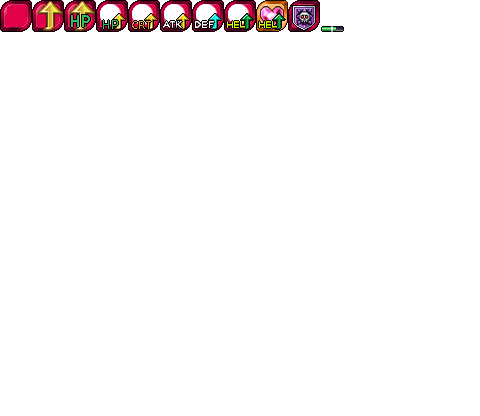
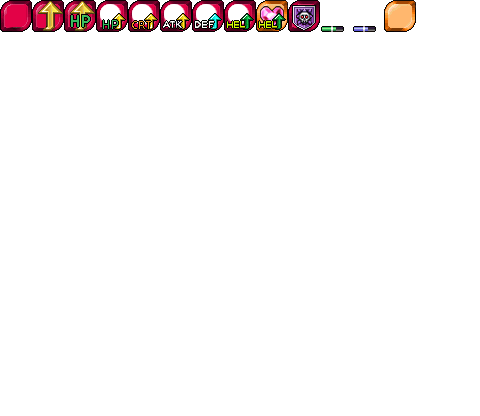
Added support for passive 12

Changed region(s): [[0.7188, 0.0, 0.875, 0.0938]]

diff --git a/src/components/Multidex/BuffList/BuffIcon.vue b/src/components/Multidex/BuffList/BuffIcon.vue
@@ -108,9 +108,9 @@
         <template v-if="!['PASSIVE_BUFF_HPUP', 'PASSIVE_BUFF_HCREC'].includes(iconKey)">
           <template v-if="iconKey.includes('HPTHRESH')">
             <image
-            width="480" height="416"
-            xlink:href="@/assets/buff-translation/battle/battle_buff_icon.png"
-            :transform="`translate(${getBattleBuffIconCoordinates(battleBuffIconKeys.indexOf(`BUFF_${getTypeInfoFromPassiveTypeStatKey(iconKey).stat}UP`))})`"/>
+              width="480" height="416"
+              xlink:href="@/assets/buff-translation/battle/battle_buff_icon.png"
+              :transform="`translate(${getBattleBuffIconCoordinates(battleBuffIconKeys.indexOf(`BUFF_${getTypeInfoFromPassiveTypeStatKey(iconKey).stat}UP`))})`"/>
             <image
               width="480" height="416"
               xlink:href="@/assets/buff-translation/battle/custom-icons.png"
@@ -133,6 +133,39 @@
         <text x="4" y="30" font-family="Consolas" font-size="3rem" font-weight="bold" fill="white" stroke="black" stroke-width="2px">
           {{ iconKey.startsWith('PASSIVE') ? 'P' : 'B' }}
         </text>
+      </g>
+    </template>
+    <template v-else-if="iconKey.startsWith('PASSIVE') && !!getDropType(iconKey)">
+      <template v-if="['zel', 'karma'].includes(getDropType(iconKey))">
+        <image
+          width="480" height="416"
+          xlink:href="@/assets/buff-translation/battle/custom-icons.png"
+          :transform="`translate(${getBattleBuffIconCoordinates(customBuffIconKeys.indexOf(`BUFF_GENERICDROP`))})`"/>
+        <image
+          v-if="getDropType(iconKey) === 'zel'"
+          width="102" height="102"
+          xlink:href="@/assets/zell_thum.png"
+          transform="scale(0.3)"/>
+        <image
+          v-else
+          width="102" height="102"
+          xlink:href="@/assets/karma_thum.png"
+          transform="scale(0.3)"/>
+      </template>
+      <image
+        v-else
+        width="480" height="416"
+        xlink:href="@/assets/buff-translation/battle/battle_buff_icon.png"
+        :transform="`translate(${getBattleBuffIconCoordinates(battleBuffIconKeys.indexOf(`BUFF_${getDropType(iconKey).toUpperCase()}DROP`))})`"/>
+      <template v-if="iconKey.includes('HPTHRESH')">
+        <image
+          width="480" height="416"
+          xlink:href="@/assets/buff-translation/battle/custom-icons.png"
+          :transform="`translate(${getBattleBuffIconCoordinates(customBuffIconKeys.indexOf(`BUFF_HPTHRESHGENERIC`))})`"/>
+      </template>
+      <g class="animate--pulse">
+        <rect x="0" y="0" width="32" height="32" rx="8" ry="8" fill="grey" style="fill-opacity: 0.5"/>
+        <text x="4" y="30" font-family="Consolas" font-size="3rem" font-weight="bold" fill="white" stroke="black" stroke-width="2px">P</text>
       </g>
     </template>
     <template v-else>
@@ -388,6 +421,8 @@ export default {
       'BUFF_HCREC',
       'BUFF_ALLAILNULL',
       'BUFF_HPTHRESHGENERIC',
+      'BUFF_BBTHRESHGENERIC',
+      'BUFF_GENERICDROP',
     ],
     ailmentBuffKeys: () => knownConstants.ailments.map(ail => `DEBUFF_${ail.toUpperCase()}`),
     iconKeyMapping: () => IconKeyMapping,
@@ -424,6 +459,11 @@ export default {
       const match = this.getTypeInfoFromPassiveTypeStatKey(iconKey) || {};
       const isPassiveType = !!match.type && knownConstants.unitTypes.includes(match.type.toLowerCase());
       return isPassiveType;
+    },
+    getDropType (iconKey) {
+      const result = knownConstants.dropTypes.filter(type => iconKey.endsWith(`${type.toUpperCase()}DROP`))[0];
+      console.debug(iconKey, result);
+      return result;
     },
   },
 };

diff --git a/src/store/instances/EffectProcessor/passives.js b/src/store/instances/EffectProcessor/passives.js
@@ -350,25 +350,72 @@ const passives = {
       };
     },
   },
+  '12': {
+    desc: 'HP Conditional HC/BC/Item/Zel/Karma Drop RAte',
+    config: {
+      processOrder: ['hc', 'bc', 'item', 'zel', 'karma'],
+      [helper.iconGeneratorSymbol]: (dropType) => `PASSIVE_BUFF_HPTHRESH${dropType.toUpperCase()}DROP`,
+      keyMapping: {
+        hc: 'hc drop rate% buff',
+        bc: 'bc drop rate% buff',
+        item: 'item drop rate% buff',
+        zel: 'zel drop rate% buff',
+        karma: 'karma drop rate% buff',
+      },
+      nameMapping: {
+        hc: 'HC',
+        bc: 'BC',
+        item: 'Item',
+        zel: 'Zel',
+        karma: 'Karma',
+      },
+    },
+    possibleIcons () {
+      return this.config.processOrder.map(this.config[helper.iconGeneratorSymbol]);
+    },
+    type: [EffectTypes.PASSIVE.name],
+    process (effect = {}, context = {}) {
+      const values = [];
+      const conditions = getConditionalData(effect, context);
+      const targetData = getTargetData(effect, context.isLS);
+
+      const hpAbove = effect['hp above % buff requirement'];
+      const hpBelow = effect['hp below % buff requirement'];
+      const hpModifiers = [];
+      if (hpAbove) {
+        if (hpAbove === 100) {
+          hpModifiers.push(`when HP is full`);
+        } else {
+          hpModifiers.push(`when HP > ${hpAbove}%`);
+        }
+      }
+
+      if (hpBelow) {
+        hpModifiers.push(`when HP < ${hpBelow}%`);
+      }
+
+      this.config.processOrder.forEach(type => {
+        const value = effect[this.config.keyMapping[type]];
+        if (value) {
+          const iconKey = this.config[helper.iconGeneratorSymbol](type);
+          const desc = [helper.getNumberAsPolarizedPercent(+value), this.config.nameMapping[type], 'drop rate', hpModifiers.join(' & '), targetData || ''].join(' ');
+          values.push({ iconKey, value: { value, targetData, conditions }, desc });
+        }
+      });
+
+      return {
+        type: this.type,
+        originalEffect: effect,
+        context,
+        values,
+      };
+    },
+  },
   '66': {
     desc: 'Add effect to BB/SBB/UBB',
     config: {
       burstTypes: ['bb', 'sbb', 'ubb'],
     },
-    // filterKeyMapping: {
-    //   'Add to BB': {
-    //     type: Boolean,
-    //     key: 'trigger on bb',
-    //   },
-    //   'Add to SBB': {
-    //     type: Boolean,
-    //     key: 'trigger on SBB',
-    //   },
-    //   'Add to UBB': {
-    //     type: Boolean,
-    //     key: 'trigger on UBB',
-    //   },
-    // },
     possibleIcons: () => [],
     type: [EffectTypes.PASSIVE.name],
     process (effect = {}, context) {

diff --git a/src/store/instances/EffectProcessor/icon-key-mappings.js b/src/store/instances/EffectProcessor/icon-key-mappings.js
@@ -27,9 +27,9 @@ const IconKeyMappings = {
     return customElementalPassives;
   })(),
   ...(() => {
-    const customUnitTypePassives = {};
+    const customStatPassives = {};
     const addStatKey = (statKey) => {
-      customUnitTypePassives[statKey] = { name: statKey };
+      customStatPassives[statKey] = { name: statKey };
     };
     const statTypes = ['hp', 'atk', 'def', 'rec'];
     knownConstants.unitTypes.forEach(u => {
@@ -40,7 +40,15 @@ const IconKeyMappings = {
     statTypes.slice(1).forEach(s => {
       addStatKey(`PASSIVE_BUFF_HPTHRESH${s.toUpperCase()}UP`);
     });
-    return customUnitTypePassives;
+    return customStatPassives;
+  })(),
+  ...(() => {
+    const customDropPassives = {};
+    knownConstants.dropTypes.forEach(type => {
+      const iconKey = `PASSIVE_BUFF_HPTHRESH${type.toUpperCase()}DROP`;
+      customDropPassives[iconKey] = { name: iconKey };
+    });
+    return customDropPassives;
   })(),
 
   // instant buffs
@@ -51,6 +59,8 @@ const IconKeyMappings = {
   BUFF_HPUP: { name: 'BUFF_HPUP' },
   BUFF_HCREC: { name: 'BUFF_HCREC' },
   BUFF_ALLAILNULL: { name: 'BUFF_ALLAILNULL' },
+  BUFF_ZELDROP: { name: 'BUFF_ZELDROP' },
+  BUFF_KARMADROP: { name: 'BUFF_KARMADROP' },
 
   // most proc buffs
   BUFF_ATKUP: { name: 'BUFF_ATKUP' },

diff --git a/src/store/modules/constants.js b/src/store/modules/constants.js
@@ -48,4 +48,5 @@ export default {
   buffSearchOptions: ['ls', 'es', 'sp', 'bb', 'sbb', 'ubb'],
   unitTypes: ['lord', 'anima', 'breaker', 'guardian', 'oracle'],
   ailments: ['poison', 'weak', 'sick', 'injury', 'curse', 'paralysis'],
+  dropTypes: ['hc', 'bc', 'item', 'zel', 'karma'],
 };
